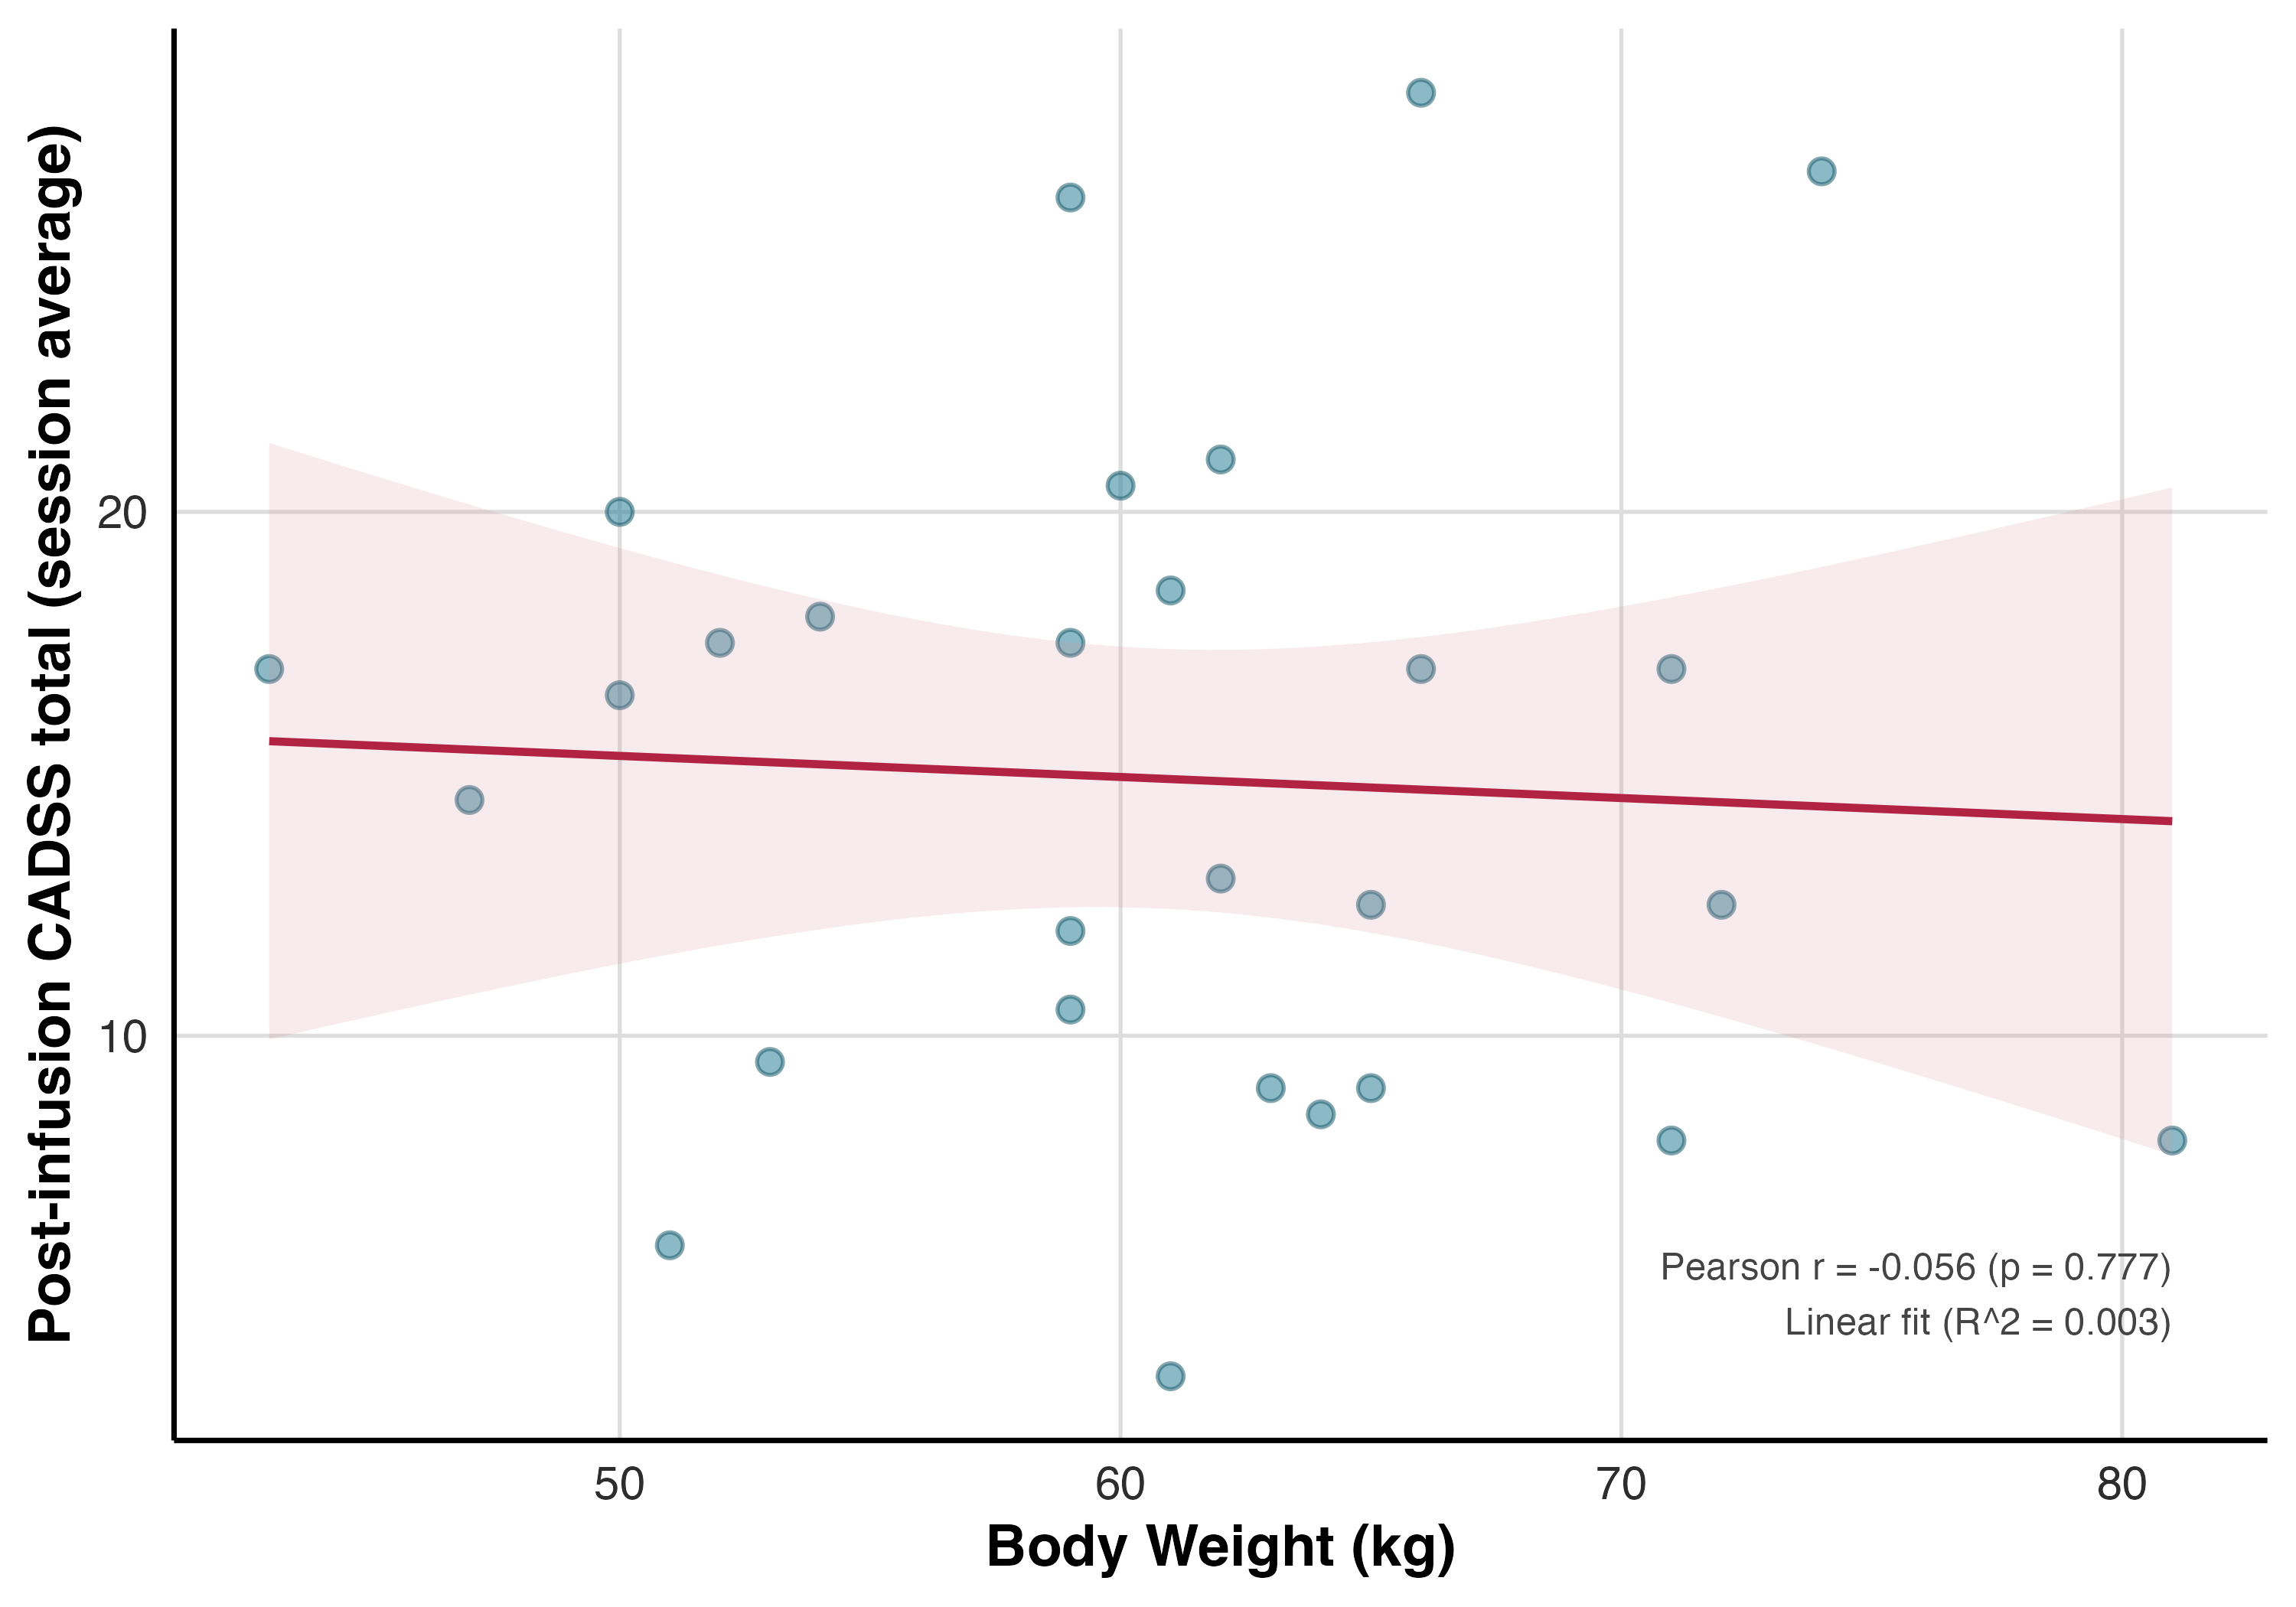
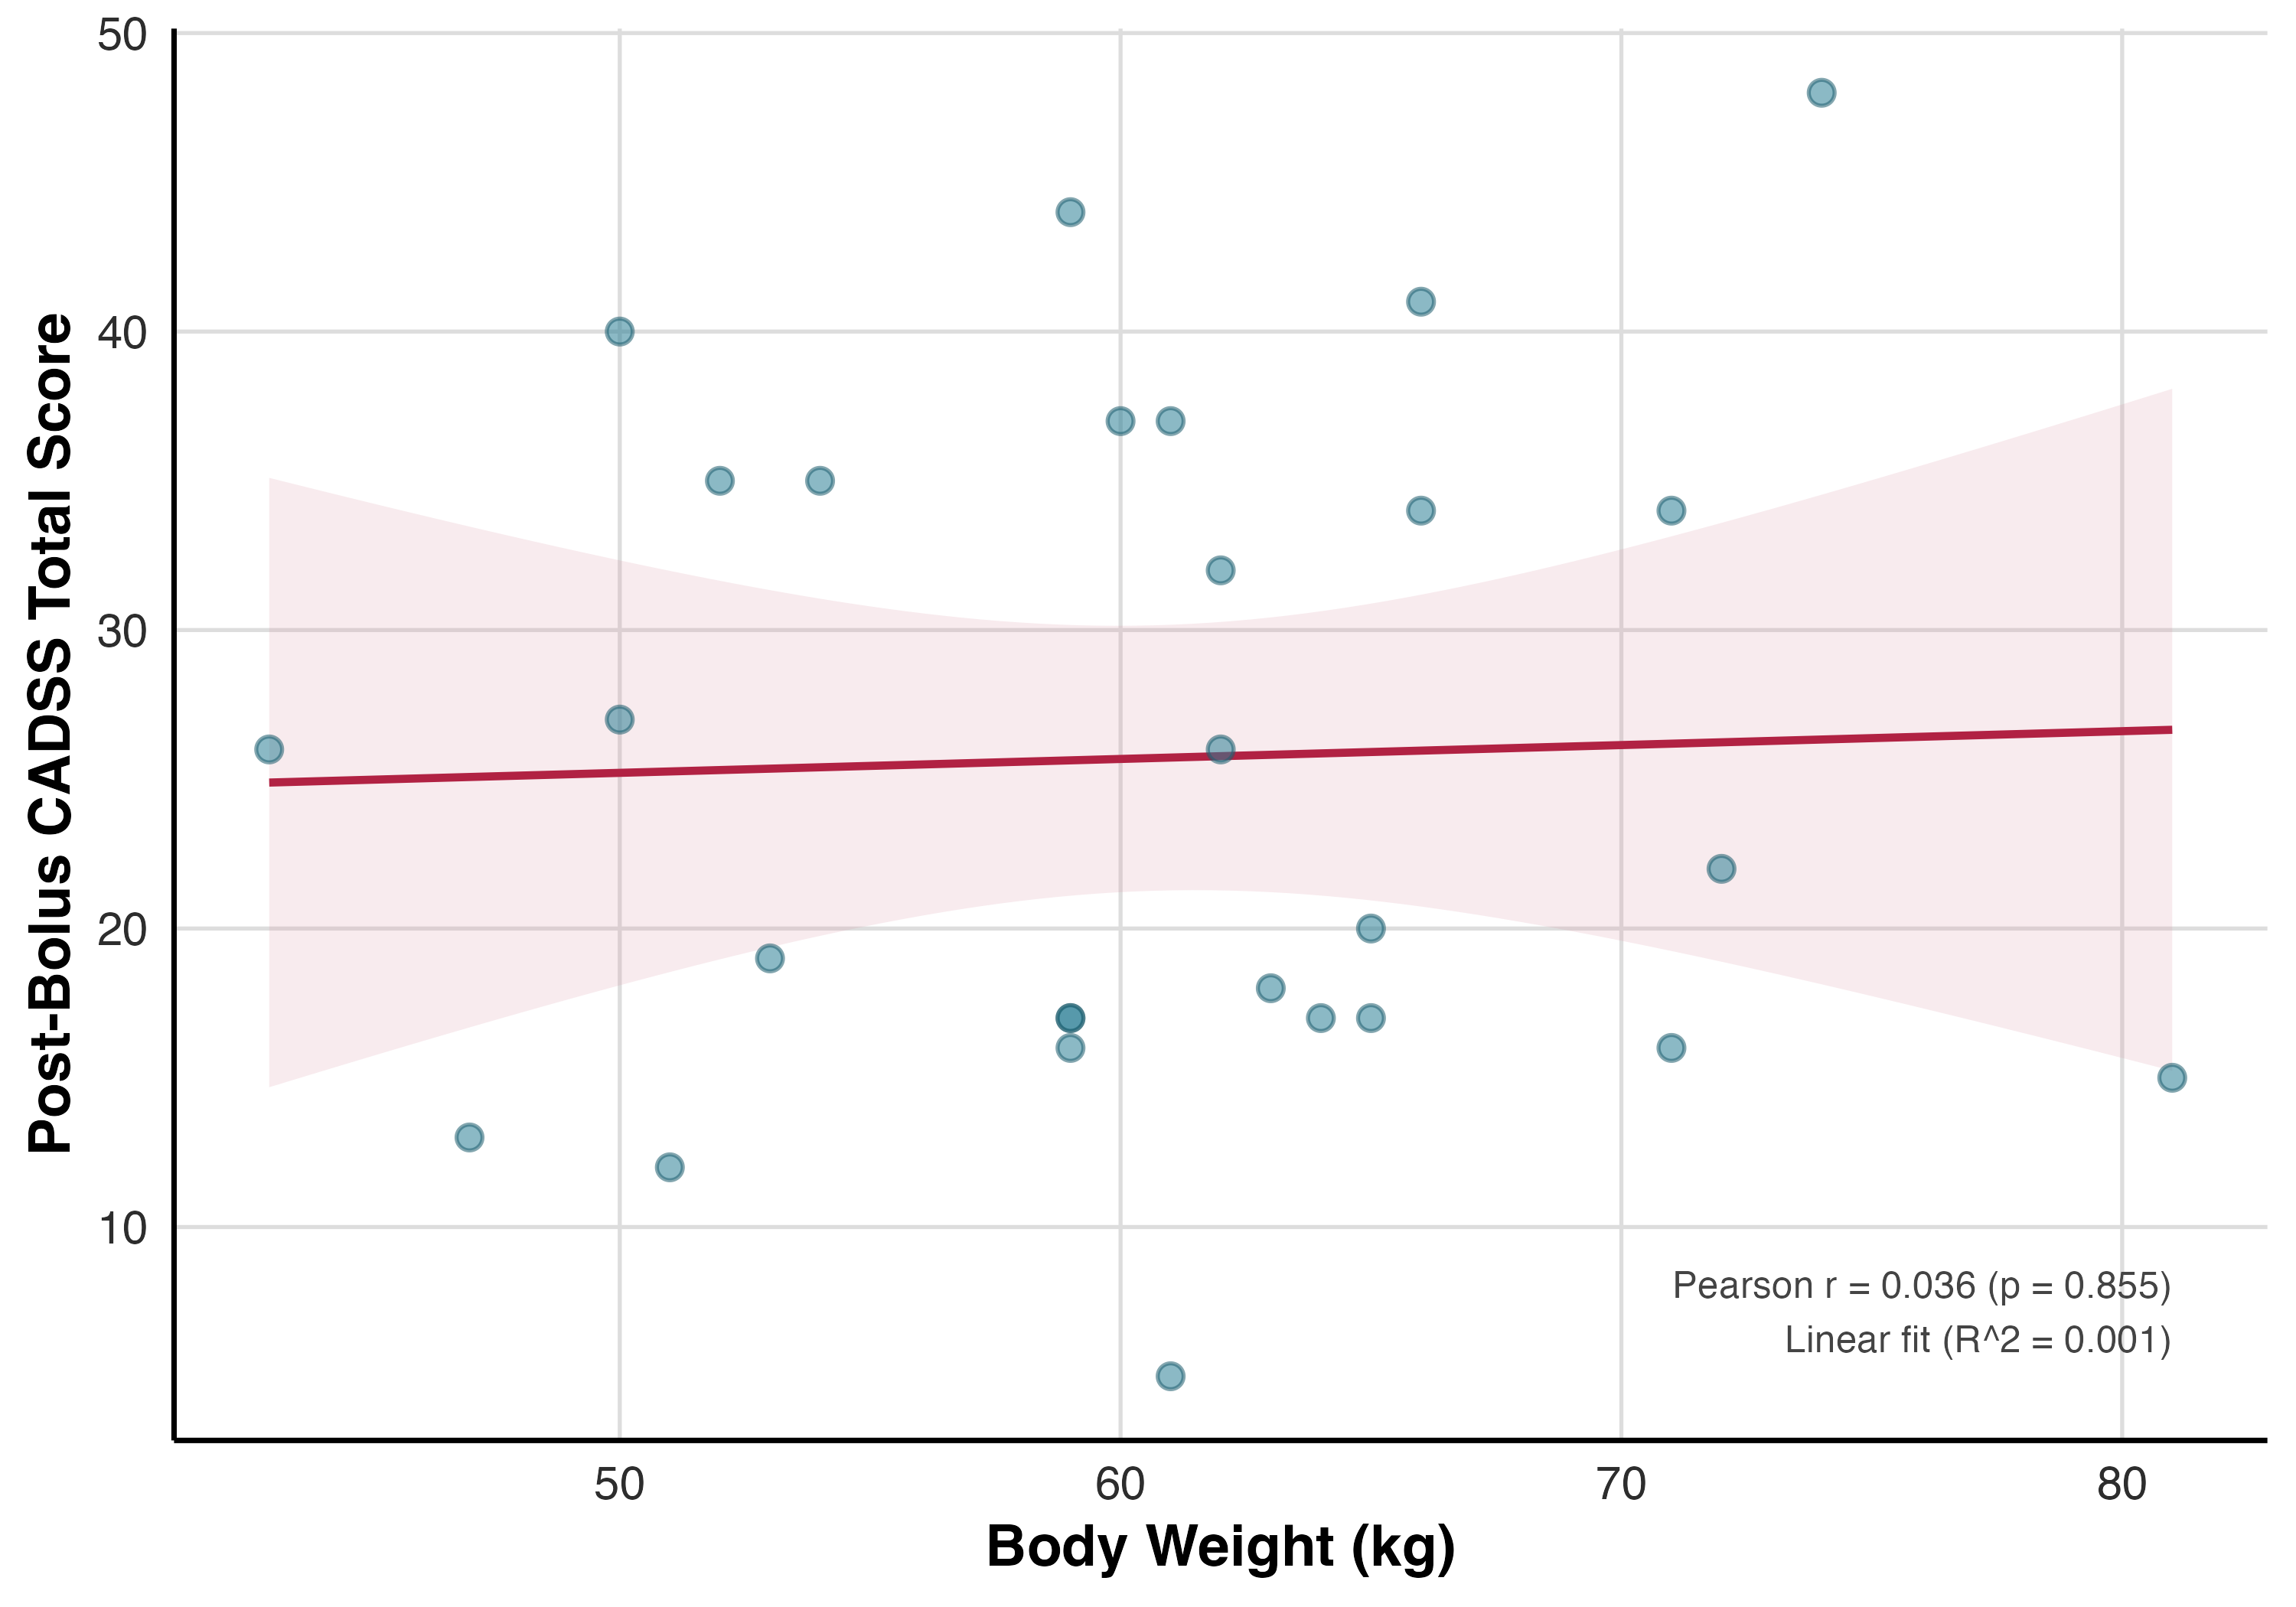
fix: align S1 dose-equivalence with ketamine post-bolus CADSS
Switch plot and verification to CADSS_total_post_session2 (r≈0.04,
p≈0.86), expand make verify checks for rebuttal/main stats, and
document full audit in docs/VERIFICATION.md.

diff --git a/docs/VERIFICATION.md b/docs/VERIFICATION.md
@@ -1,31 +1,56 @@
 # Manuscript number verification
 
-Run from repository root:
+Run from repository root (`submission/osf`):
 
 ```bash
 make verify
 ```
 
-## Results summary (spot-checks)
+Regenerate Supplementary Figure S1 (weight vs post-bolus CADSS):
 
-| Reported in manuscript | Source in repo | Status |
-|------------------------|----------------|--------|
-| Supp Fig S1: Pearson **r = −0.056**, **p = 0.777** | `CADSS_Weight_DoseEquivalence_Data.csv` → `CADSS_total_post_avg` | **Matches** when using session-averaged post-infusion CADSS |
-| Supp Fig S1 caption: “post-**bolus**” CADSS | `CADSS_total_post_session2` (ketamine `_2_post` in `CADSS.csv`) | **Does not match** caption stats (r ≈ 0.04, p ≈ 0.86) |
-| Main text: weight **61.6 ± 9.4 kg** | `data/participants.csv` | **Matches** (mean/sd within rounding) |
-| Steiger: all ROI **p > 0.11**; dlPFC **p = 0.1139** | `output/revision/tables/steiger_roi_session_corr_diff.csv`, recomputed from `data/` | **Matches** |
-| Supp Table: pain `calib_temp` **p = 0.070** | `output/tables/supp_table_tempadj_pain_model.csv` | **Matches** |
+```bash
+make dose-equiv
+```
 
-## Action taken in code
+## Audit table (Final_files docx vs repo)
 
-`code/revision/plot_dose_equivalence.R` uses **`CADSS_total_post_avg`** so the reproduced correlation matches the **reported** r and p. The supplementary figure caption still says “post-bolus”; consider aligning caption with the average measure or switching the analysis to ketamine-only post-bolus and updating the reported statistics.
+| Claim | Manuscript value | Reproduced value | Status | Script / source |
+|-------|------------------|------------------|--------|-----------------|
+| Supp Fig S1 / dose equivalence | Pearson **r = 0.04**, **p = 0.86** (caption **p = 0.855**) | r = 0.036, p = 0.855 (`CADSS_total_post_session2`, n = 29) | **OK** | `code/revision/plot_dose_equivalence.R`; `data/CADSS_Weight_DoseEquivalence_Data.csv` |
+| Supp methods: post-bolus CADSS on ketamine session | Qualitative (no association) | Same as above | **OK** | `code/verify_manuscript_numbers.R` |
+| Demographics: body weight | **61.6 ± 9.4 kg** | mean 61.6, SD 9.4 (n = 36) | **OK** | `data/participants.csv` |
+| Rebuttal: post-bolus CADSS (ketamine) | mean **24.94**, SD **10.77**, range **5–48** | 24.94, 10.77, 5–48 (n = 33) | **OK** | `data/CADSS.csv` (sum of `_2_post` subscales) |
+| Main: NPS vs pain (high intensity) | Spearman **ρ = .64** (placebo), **ρ = .60** (ketamine) | 0.643, 0.604 | **OK** | `output/tables/nps_pain_corr_results.csv` ← `01_pain_ketamine_analysis_temp_covariate.r` |
+| Supp Table: pain `calib_temp` | **p = 0.070** | 0.070 | **OK** | `output/tables/supp_table_tempadj_pain_model.csv` |
+| Rebuttal: pain + `calib_temp` LRT | **χ²(1) = 2.66**, **p = .103** | 2.66, 0.103 | **OK** | `output/tables/model_comparison_pain_calib_temp.csv` |
+| Main / rebuttal: ROI + `calib_temp` LRT | **χ²(1) = 9.11**, **p = .003** | 9.11, 0.0025 (rounded .003) | **OK** | `output/tables/model_comparison_roi_calib_temp.csv` |
+| Main: intensity × session × `calib_temp` (ROI) | **F(1, 681) = 7.16**, **p = .008** | F = 7.16, p = .008 | **OK** | `output/tables/roi_m2_nice_anova.csv` |
+| Main: Steiger (session-specific pain–ROI vs dissociation) | all ROI **p > 0.11**; dlPFC **p = 0.1139** | min p > 0.11; dlPFC 0.1139 | **OK** | `output/revision/tables/steiger_roi_session_corr_diff.csv`; `02_supplementary_revision.Rmd` |
+| Steiger (independent recomputation) | As committed CSV | Exact match from `data/` | **OK** | `psych::r.test` on `roi_beta_values_by_condition.csv` + `pain_ratings.csv` |
+| Supplementary Figure S2 | ROI activation vs calibrated temperature | Frozen PNG in `text/npp_revision_2026/` | **Frozen** | No rebuild script in repo |
+| Supplementary Figure S3 | Connectivity | `output/figures/connectivity_all_networks.*` | **Committed** | `01_pain_ketamine_analysis_temp_covariate.r` |
+| Arrow / timing supplementary figures | Various | Not in OSF package | **Out of scope** | Frozen or not submitted |
+| Full main pipeline (~30 min) | All `output/tables/` | Spot-checked tables above | **Spot-check** | `make main` |
+
+## Manuscript docx check (revision/Final_files)
+
+- **Supplementary_Information_revision_clean.docx**: reports **r = 0.04**, **p = 0.86** (caption **p = 0.855**); **no** remaining **r = −0.056** / **p = 0.777** for S1.
+- **Main_revision_clean.docx**: Steiger, calib-temp χ²/F, NPS ρ, demographics consistent with repo.
+- **rebuttal_letter.docx**: CADSS descriptives, χ²/F, pain LRT consistent with repo.
+
+The string `0.777` still appears in the supplementary docx inside **Supplementary Table S14** (S2(L) model **R²** column), not S1.
+
+## Historical note (resolved)
+
+Earlier drafts used **`CADSS_total_post_avg`** (session-averaged post-infusion CADSS), giving **r = −0.056**, **p = 0.777**. The revised manuscript and repo now use **ketamine post-bolus** (`CADSS_total_post_session2` / `CADSS_*_2_post`).
 
 ## Not fully re-run in CI
 
-- Full `01_pain_ketamine_analysis_temp_covariate.r` (long runtime; committed `output/tables/` are the reference)
-- `02_supplementary_revision.Rmd` Steiger block is verified independently; full Rmd needs pandoc to render
-- Supplementary Figure S2: frozen embed (no script)
+- Full `01_pain_ketamine_analysis_temp_covariate.r` (long runtime; committed tables are reference).
+- `02_supplementary_revision.Rmd` render requires **pandoc ≥ 1.12.3**.
+- Supplementary Figure S2: embedded asset only.
 
-## Steiger recomputation
+## Minor repo hygiene (optional)
 
-Independent R code using `data/roi_beta_values_by_condition.csv`, `pain_ratings.csv`, and `psych::r.test` reproduces committed `steiger_*.csv` exactly (including dlPFC p = 0.1139).
+- S1 figure files are named `Figure_S_calibtemp_pain_slopes.{png,pdf}` (legacy name); content is weight vs CADSS.
+- `text/npp_revision_2026/` may lag `revision/Final_files/`; sync before OSF upload.